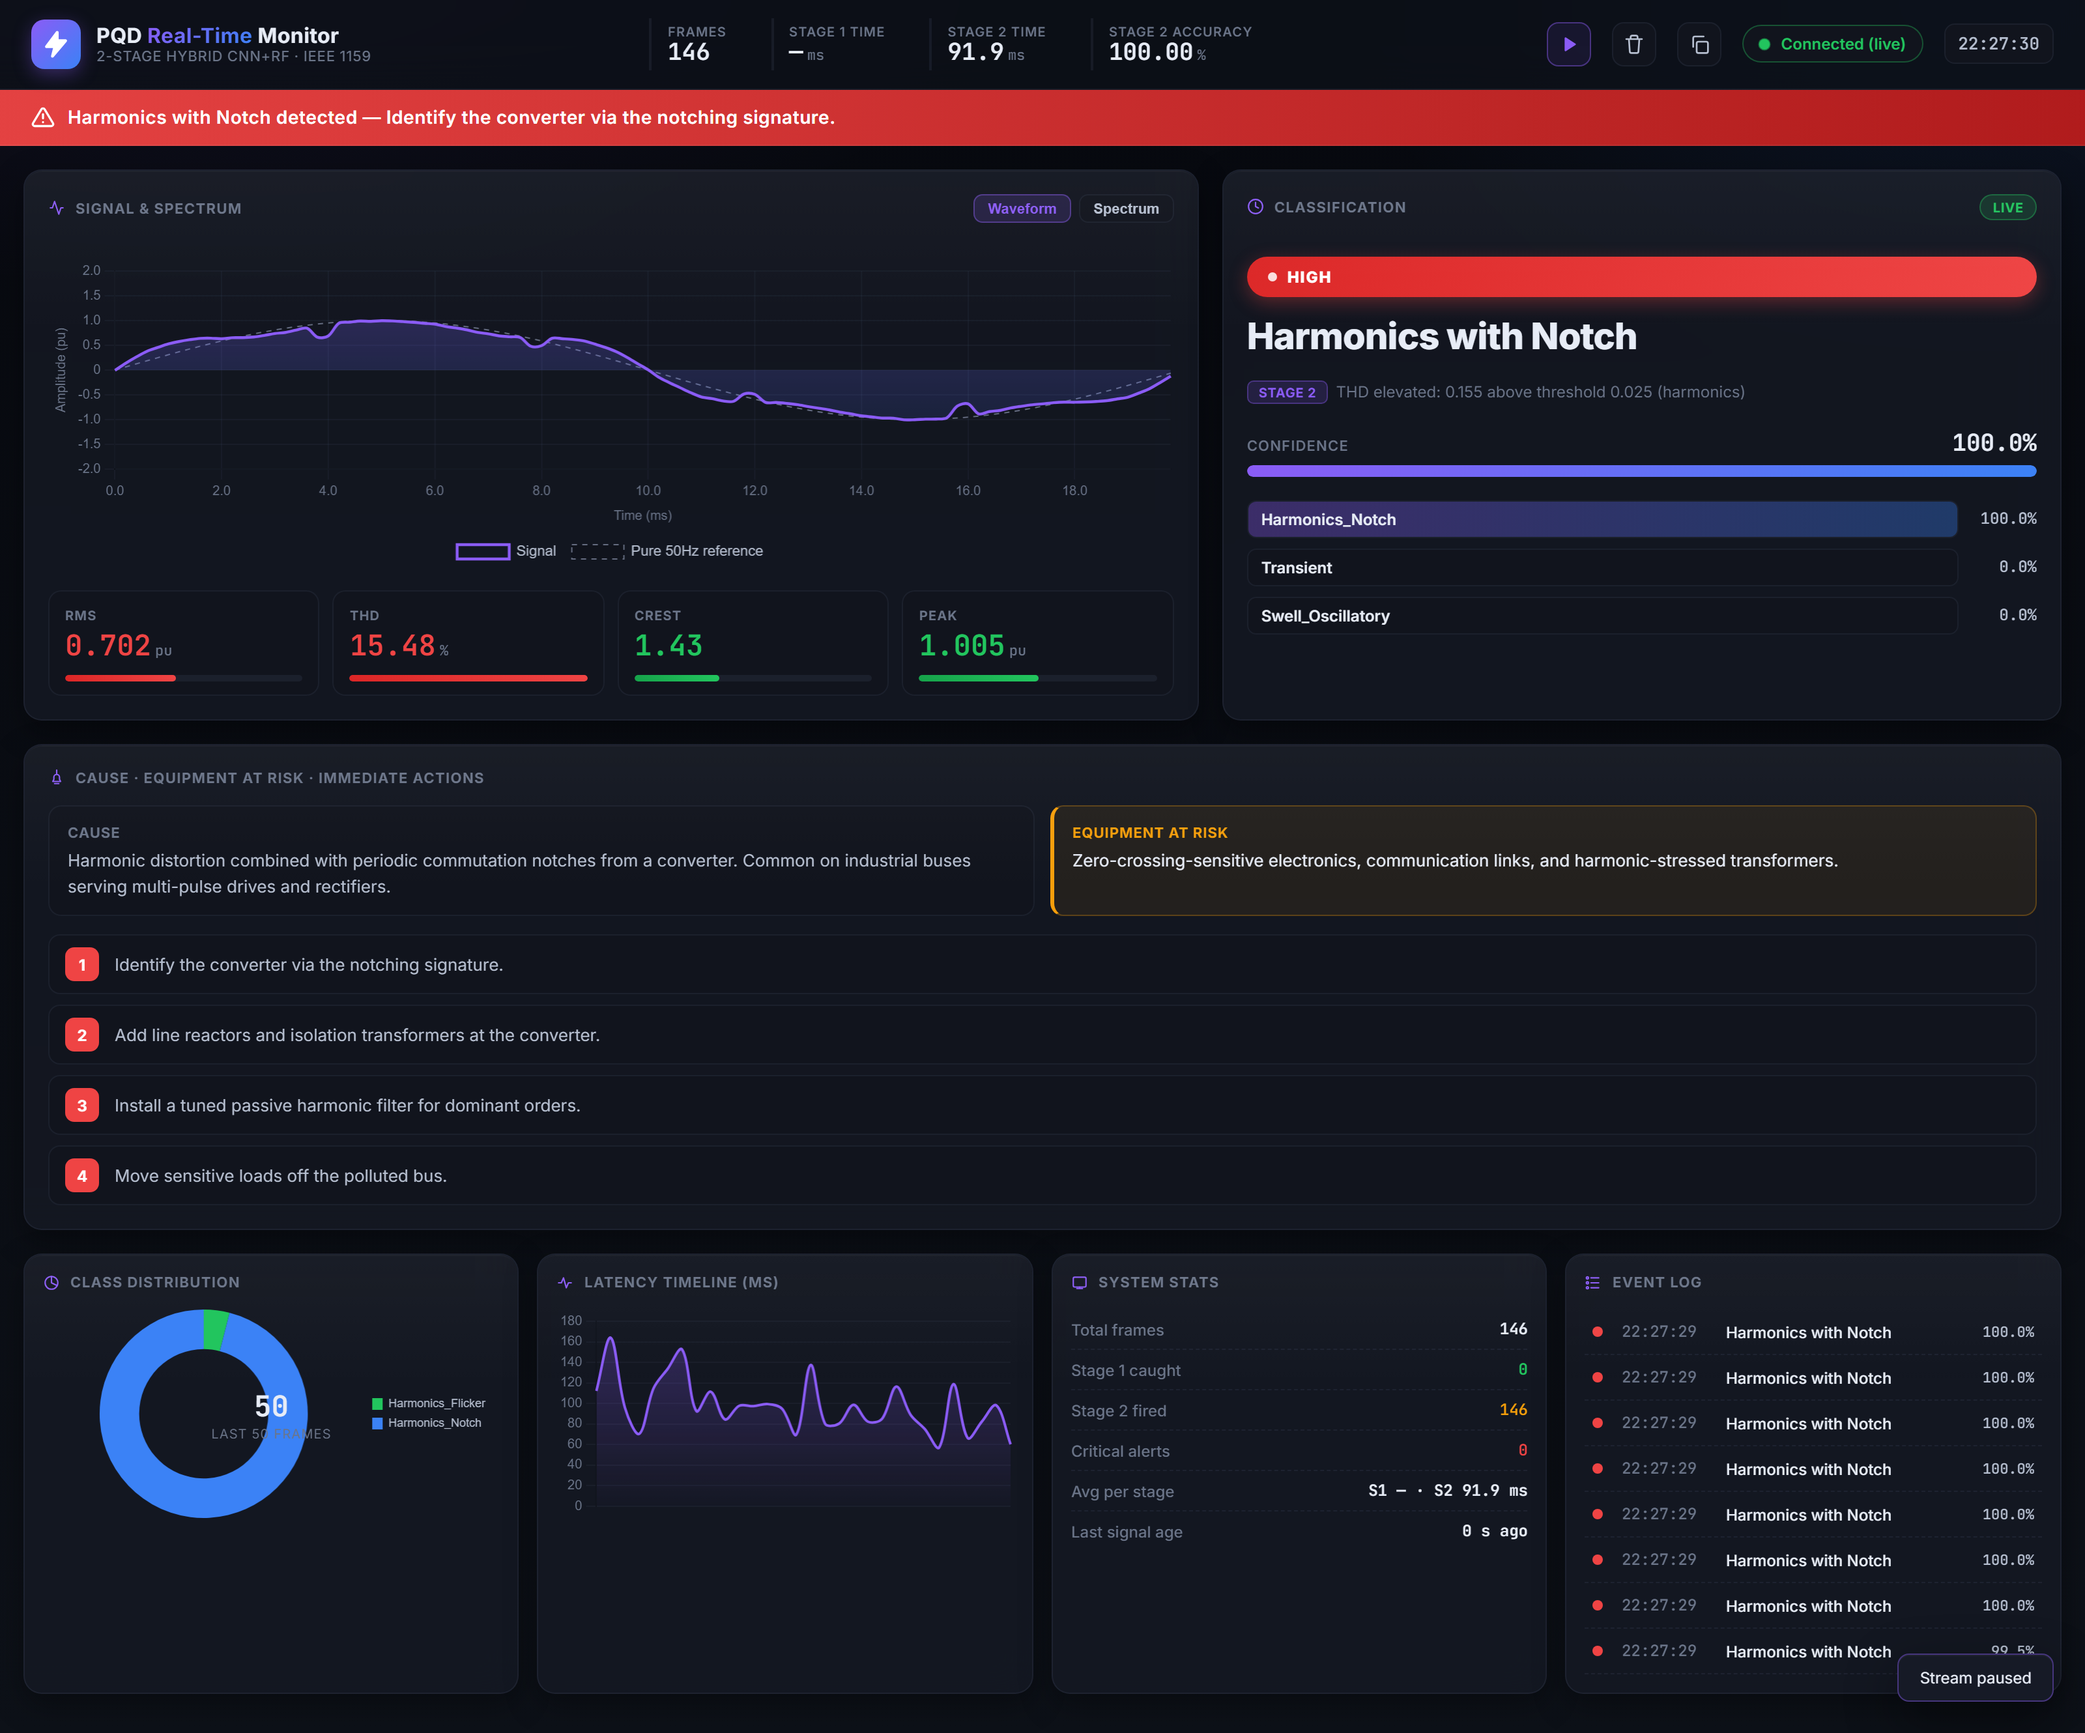
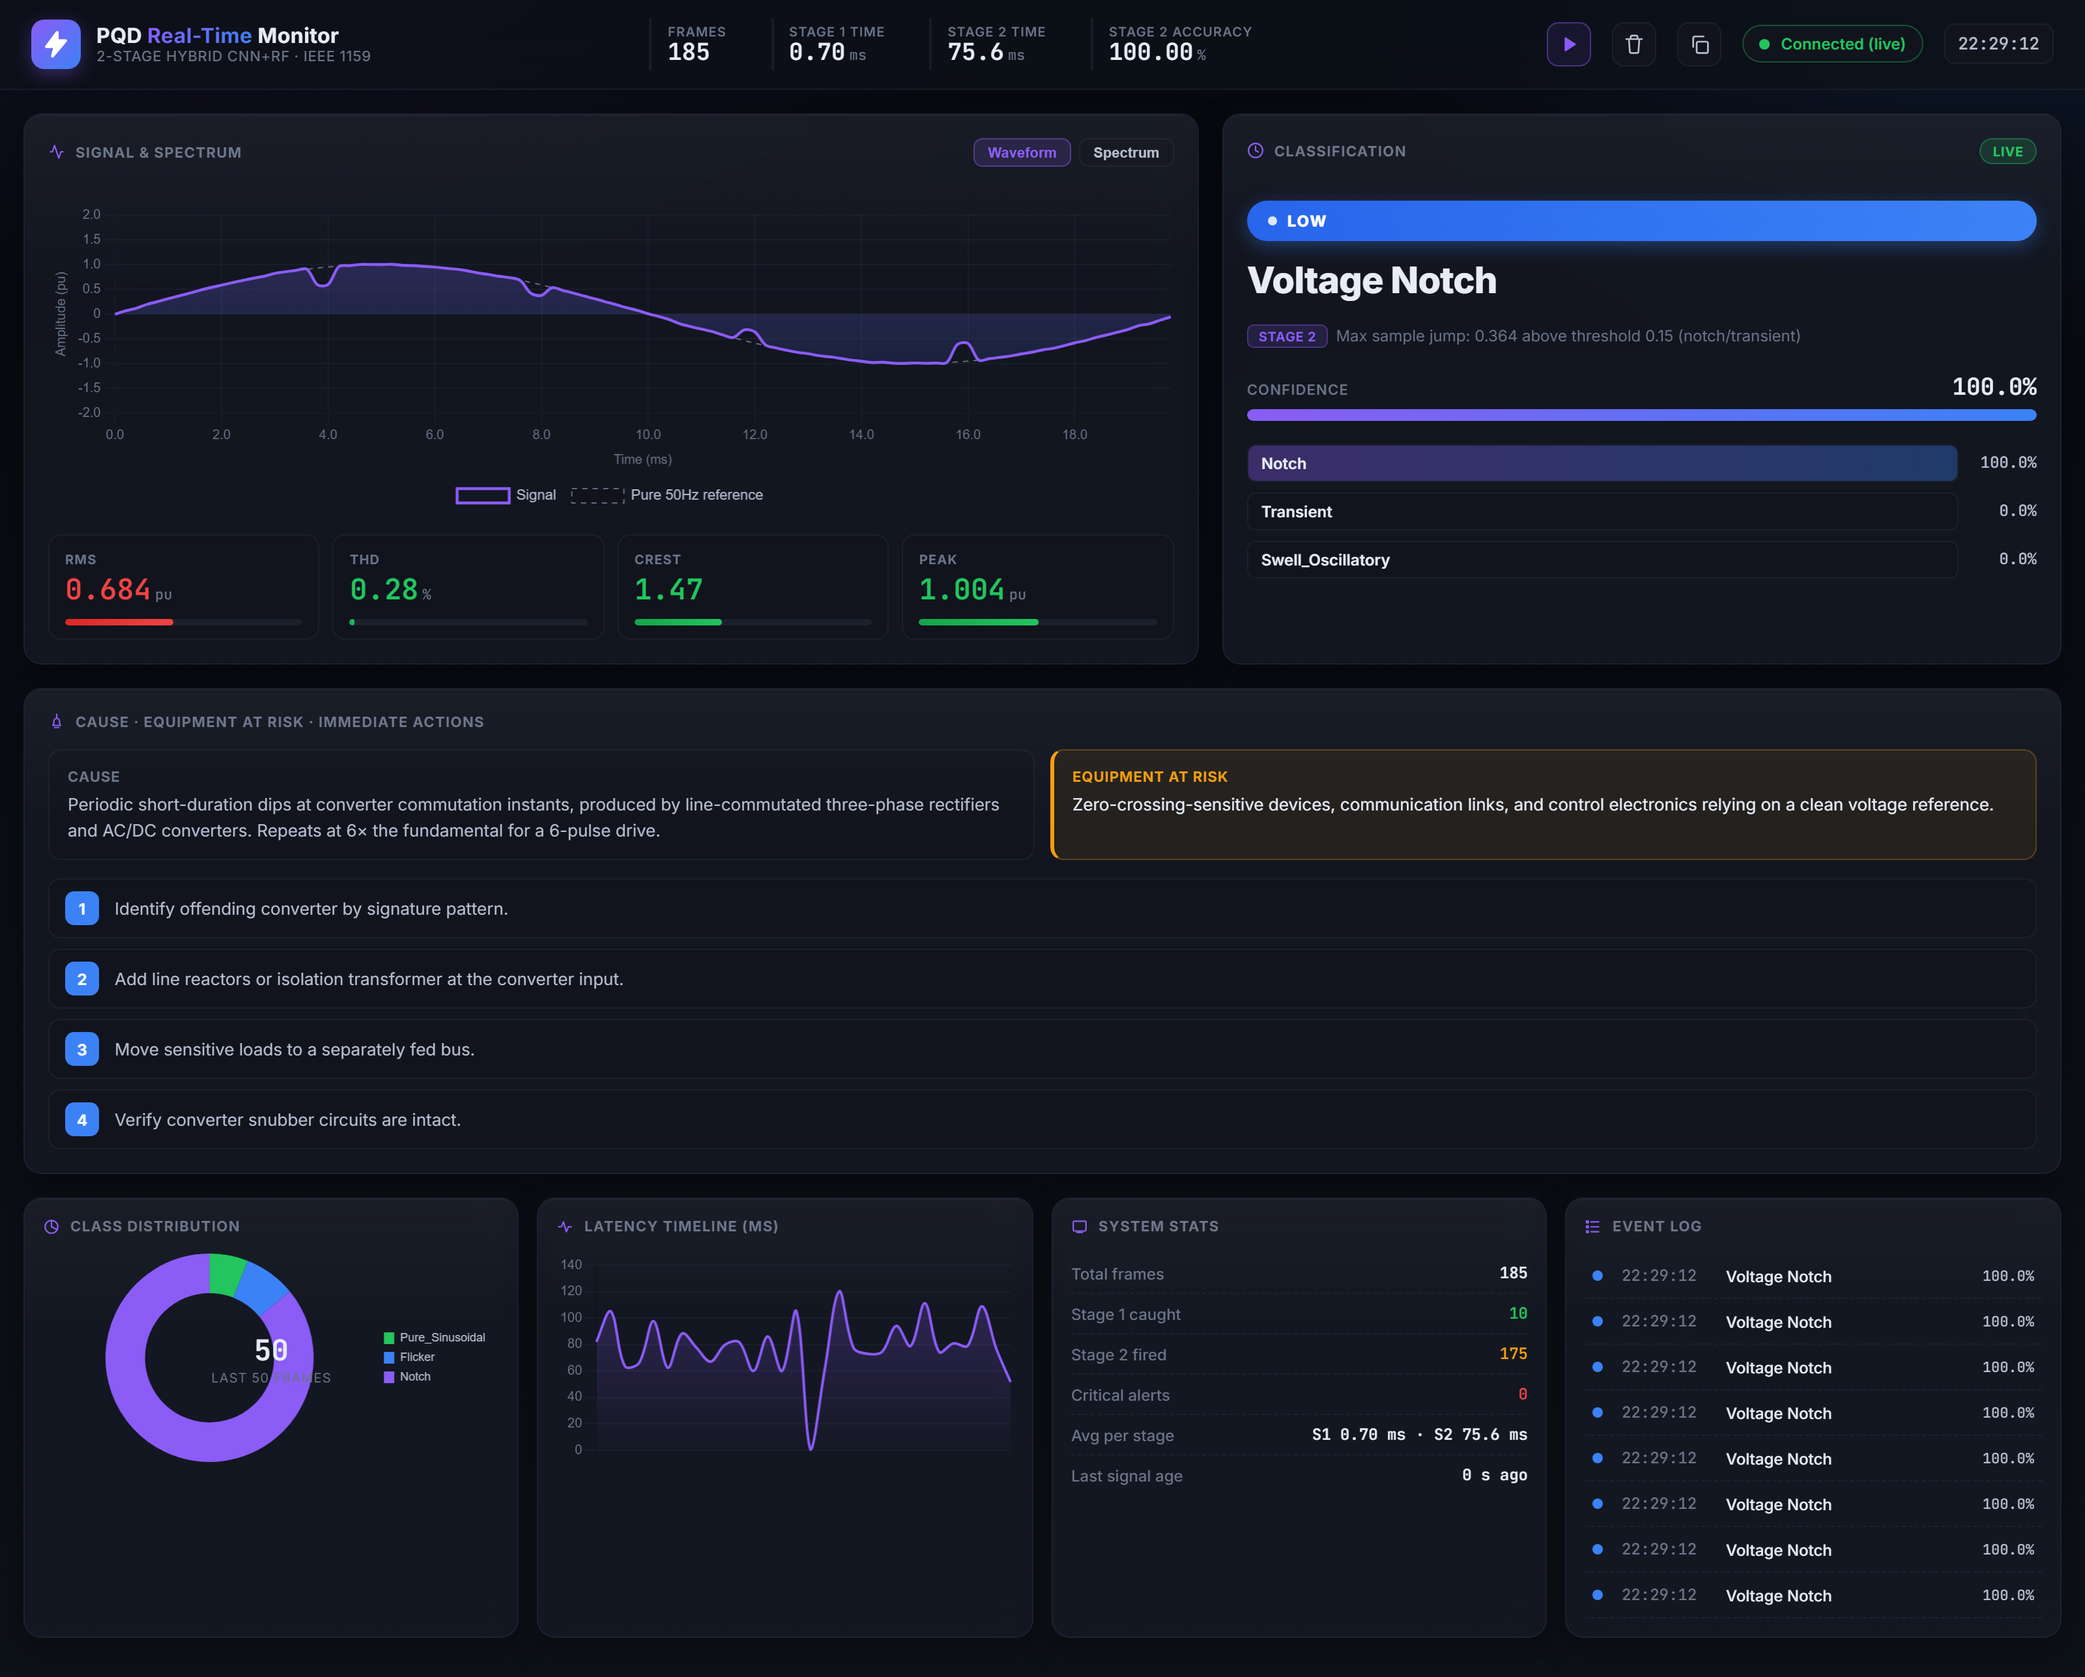
Fix dashboard screenshots: clean dark background, correct class match
- Regenerate viewport to actual content height so the fixed gradient
  covers the full image (no more white tail at the bottom).
- Inject CSS to drop background-attachment:fixed, hide scrollbars and
  the transient "Stream paused" toast.
- Use #dispName for class detection (was reading whole-page innerText
  which always contained "Pure_Sinusoidal" in the legend).
- Pause-first read-decide-shoot loop: freeze the live stream before
  reading the displayed class so the captured image matches the label
  that triggered the capture.

diff --git a/paper/scripts/screenshot_dashboard.py b/paper/scripts/screenshot_dashboard.py
@@ -122,6 +122,10 @@ def main() -> int:
       }
       ::-webkit-scrollbar { width: 0 !important; height: 0 !important; }
       * { scrollbar-width: none !important; }
+      /* Hide the "Stream paused" toast that pops up while we freeze the
+         stream to take a clean shot — it would otherwise show in the
+         bottom-right of every captured image. */
+      #toast, .toast { opacity: 0 !important; visibility: hidden !important; }
     """
 
     def prep_page(page) -> None:
